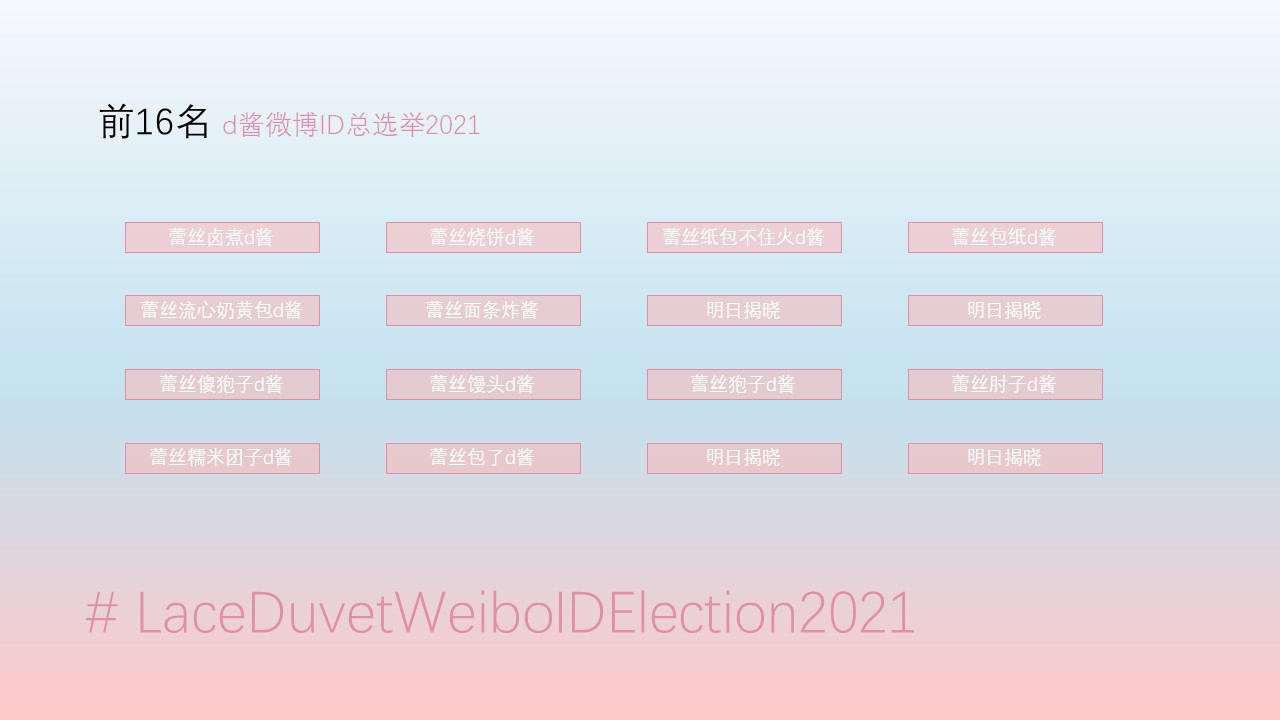
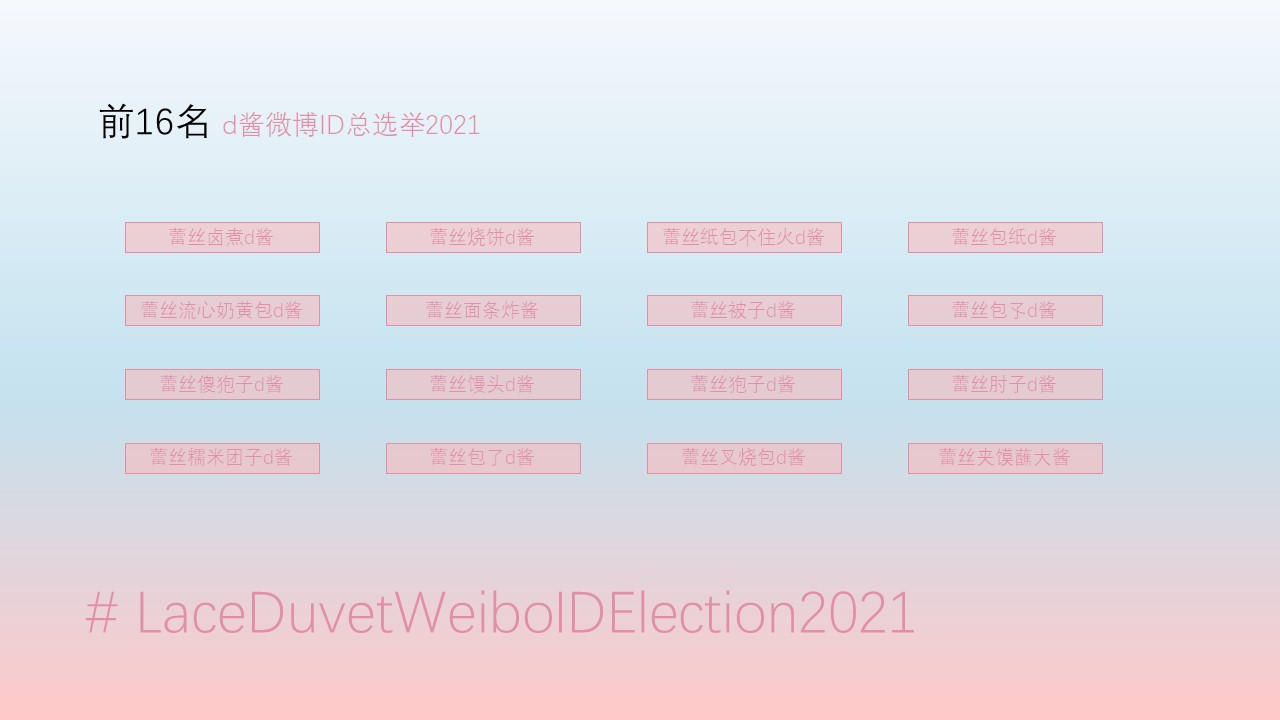
更新小组赛第四天结果

diff --git a/set_group_race_result.py b/set_group_race_result.py
@@ -9,13 +9,28 @@ result_c = {
     '蕾丝包孑d酱': [2, False]
 }
 result_g = {
-    '糯米团子d酱': [18, True],
+    '蕾丝糯米团子d酱': [18, True],
     '蕾丝包了d酱': [10, True],
     '蕾丝烧卖d酱': [8, False],
     '蕾丝锅盔d酱': [4, False],
     '蕾丝元宵d酱': [3, False]
 }
+result_d = {
+    '蕾丝被子d酱': [14, True],
+    '蕾丝包孓d酱': [6, True],
+    '蕾丝麻酱糖饼d酱': [5, False],
+    '蕾丝勾子d酱': [3, False],
+    '蕾丝汤圆d酱': [3, False],
+    '法蕾缝纫机d酱': [2, False]
+}
+result_h = {
+    '蕾丝叉烧包d酱': [13, True],
+    '蕾丝夹馍蘸大酱': [9, True],
+    '蕾丝粽子d酱': [5, False],
+    '蕾丝丸子d酱': [4, False],
+    '蕾包子丝d酱': [4, False]
+}
 
 if __name__ == '__main__':
-    group = 'G'
-    set_race_result_by_group(group, result_g)
+    group = 'H'
+    set_race_result_by_group(group, result_h)

diff --git a/README.md b/README.md
@@ -38,11 +38,11 @@
 [11月2日小组赛投票链接](https://tp.wjx.top/vj/Q0JYaTT.aspx)
 
 11月3日：举行C组、G组的小组赛。得票最多的2位选手晋级。
-投票时间：11月3日 0:00 - 22:00
 
 [11月3日小组赛投票链接](https://tp.wjx.top/vj/m3scTrk.aspx)
 
 11月4日：举行D组、H组的小组赛。得票最多的2位选手晋级。
+投票时间：11月4日 0:00 - 22:00
 
 [11月4日小组赛投票链接](https://tp.wjx.top/vj/wGyK4w2.aspx)
 
@@ -70,17 +70,7 @@
 
 #### D组
 
-蕾丝勾子d酱
-
-法蕾缝纫机d酱
-
-蕾丝麻酱糖饼d酱
-
-蕾丝被子d酱
-
-蕾丝汤圆d酱
-
-蕾丝包孓d酱
+蕾丝勾子d酱 / 法蕾缝纫机d酱 / 蕾丝麻酱糖饼d酱 / 蕾丝被子d酱 / 蕾丝汤圆d酱 / 蕾丝包孓d酱
 
 ![D组比赛结果](documents/race_profile/result_board/Group_D.JPG)
 
@@ -104,21 +94,15 @@
 
 #### H组
 
-蕾丝丸子d酱
-
-蕾包子丝d酱
-
-蕾丝夹馍蘸大酱
-
-蕾丝叉烧包d酱
-
-蕾丝粽子d酱
+蕾丝丸子d酱 / 蕾包子丝d酱 / 蕾丝夹馍蘸大酱 / 蕾丝叉烧包d酱 / 蕾丝粽子d酱
 
 ![H组比赛结果](documents/race_profile/result_board/Group_H.JPG)
 
 ### 1/8决赛
 小组赛之后将有16位选手胜出，我们将重新进行抽签，对这16位选手进行分组。
 最终将分为两两对决的8组进行1/8决赛。
+
+![16强名单](documents/race_profile/result_board/16.jpg)
 
 11月8日：举行第一场、第二场1/8决赛，每场比赛的胜者晋级1/4决赛。
 
